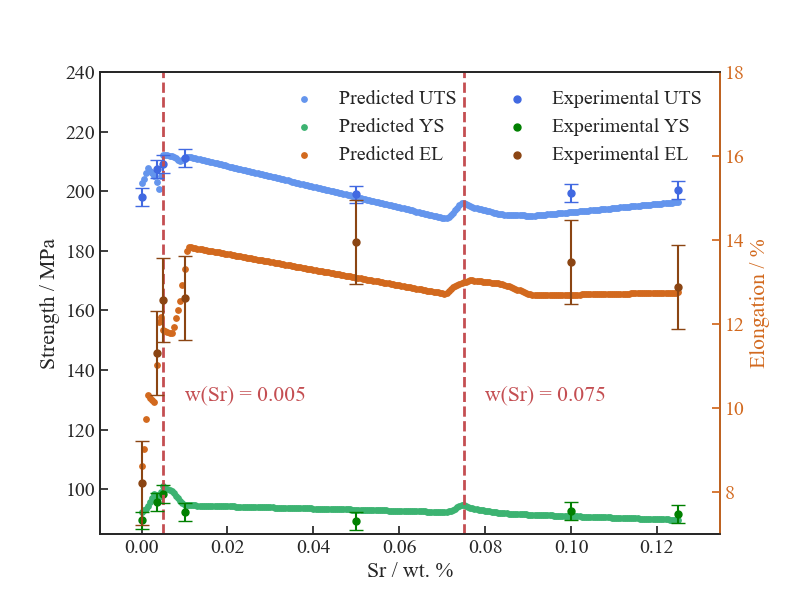
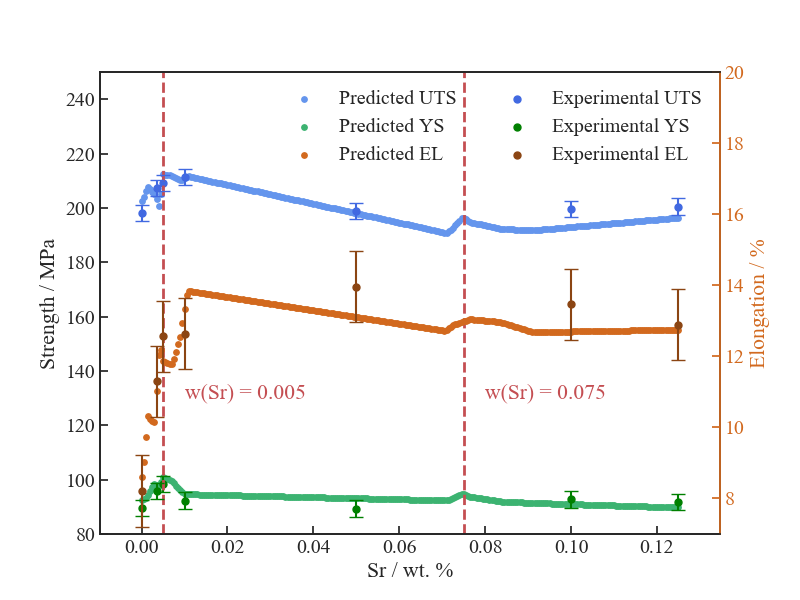
update

diff --git a/Projects/Experiment/Experiment_Al-Si-Mg-Sr_v0.0/Model_process.py b/Projects/Experiment/Experiment_Al-Si-Mg-Sr_v0.0/Model_process.py
@@ -192,67 +192,63 @@ def main(parameters_list):
         sns.set(font="Times New Roman", font_scale=1.3, style='ticks')
         matplotlib.rcParams['xtick.direction'] = 'in'
         matplotlib.rcParams['ytick.direction'] = 'in'
-        if item == 'UTS':
-            x_phase = np.linspace(-2.2, 2.7, 100)
-            y_index = 0
-            y_min = -2
-            y_max = 6
-        elif item == 'YS':
-            x_phase = np.linspace(-2.5, 3, 100)
-            y_index = 1
-            y_min = -3
+        y_min = -7
+        y_max = 5
+        if item == 'Al_1':
+            item_name = r'$\alpha$-(Al)'
+            x_phase = np.linspace(-2.2, 1, 100)
+            x_index = 0
+        elif item == 'Al_2':
+            item_name = 'Eutectic (Al)'
+            x_phase = np.linspace(-2.5, 1.5, 100)
+            x_index = 1
+        elif item == 'Si':
+            item_name = 'Eutectic (Si)'
+            x_phase = np.linspace(-1, 3, 100)
+            x_index = 2
             y_max = 7
         else:
-            x_phase = np.linspace(-2.2, 3.5, 100)
-            y_index = 2
-            y_min = -8
+            item_name = 'Al${_2}$Si${_2}$Sr'
+            x_phase = np.linspace(-1, 2, 100)
+            x_index = 3
             y_max = 7
         fig = plt.figure(figsize=(8, 6))
         ax = plt.subplot()
-        ax.set_xlabel('Phase fraction with regularization')
-        ax.set_ylabel('%s with regularization' % item)
+        ax.set_xlabel('Phase fraction of %s with regularization' % item_name)
+        ax.set_ylabel('Performance with regularization')
         ax.set_ylim(y_min, y_max)
-        # Al_1
-        pl11 = ax.scatter(x_testing_[:, 0], y_testing_[:, y_index], s=15)
-        fitting_w1, fitting_b1 = linear_fitting(x_testing_[0:153, 0],
-                                                y_testing_[0:153, y_index])
+        # UTS
+        pl11 = ax.scatter(x_testing_[:, x_index], y_testing_[:, 0], s=15)
+        fitting_w1, fitting_b1 = linear_fitting(x_testing_[0:153, x_index],
+                                                y_testing_[0:153, 0])
         pl12, = ax.plot(x_phase, fitting_w1 * x_phase +
                         fitting_b1, linestyle='dashed', linewidth=2)
-        # Al_2
-        pl21 = ax.scatter(x_testing_[:, 1], y_testing_[:, y_index], s=15)
-        fitting_w2, fitting_b2 = linear_fitting(x_testing_[:, 1],
-                                                y_testing_[:, y_index])
+        # YS
+        pl21 = ax.scatter(x_testing_[:, x_index], y_testing_[:, 1], s=15)
+        fitting_w2, fitting_b2 = linear_fitting(x_testing_[:, x_index],
+                                                y_testing_[:, 1])
         pl22, = ax.plot(x_phase, fitting_w2 * x_phase +
                         fitting_b2, linestyle='dashed', linewidth=2)
-        # Si
-        pl31 = ax.scatter(x_testing_[:, 2], y_testing_[:, y_index], s=15)
-        fitting_w3, fitting_b3 = linear_fitting(x_testing_[:, 2],
-                                                y_testing_[:, y_index])
+        # EL
+        pl31 = ax.scatter(x_testing_[:, x_index], y_testing_[:, 2], s=15)
+        fitting_w3, fitting_b3 = linear_fitting(x_testing_[:, x_index],
+                                                y_testing_[:, 2])
         pl32, = ax.plot(x_phase, fitting_w3 * x_phase +
                         fitting_b3, linestyle='dashed', linewidth=2)
-        # Al2Si2Sr
-        pl41 = ax.scatter(x_testing_[:, 3], y_testing_[:, y_index], s=15)
-        fitting_w4, fitting_b4 = linear_fitting(x_testing_[:, 3],
-                                                y_testing_[:, y_index])
-        pl42, = ax.plot(x_phase, fitting_w4 *
-                        x_phase + fitting_b4, linestyle='dashed', linewidth=2)
-        label11 = r'$\alpha$-(Al)'
+
+        label11 = 'UTS'
         label12 = 'w${_1}$ = %.2f  b${_1}$ = %.2f' % (fitting_w1, fitting_b1)
-        label21 = 'Eutectic (Al)'
+        label21 = 'YS'
         label22 = 'w${_2}$ = %.2f  b${_2}$ = %.2f' % (fitting_w2, fitting_b2)
-        label31 = 'Eutectic (Si)'
+        label31 = 'EL'
         label32 = 'w${_3}$ = %.2f  b${_3}$ = %.2f' % (fitting_w3, fitting_b3)
-        label41 = 'Al${_2}$Si${_2}$Sr'
-        label42 = 'w${_4}$ = %.2f  b${_4}$ = %.2f' % (fitting_w4, fitting_b4)
-        l1 = ax.legend([pl11, pl21, pl31, pl41], [label11, label21, label31, label41],
-                       loc='upper left', frameon=False)
-        l2 = ax.legend([pl12, pl22, pl32, pl42], [label12, label22, label32, label42],
-                       loc='upper right', frameon=False)
-        fig.gca().add_artist(l1)
-        plt.savefig(path + 'phase_%s_allRE.png' % item)
-        linear_coef_allRE = pd.DataFrame(data=np.ones((4, 2)),
-                                         index=['Al_1', 'Al_2',
-                                                'Si', 'AlSi2Sr'],
+
+        plt.legend([pl11, pl21, pl31, pl12, pl22, pl32],
+                   [label11, label21, label31, label12, label22, label32],
+                   loc='upper left', frameon=False, ncol=2)
+        plt.savefig(path + '%s_performance_allRE.png' % item)
+        linear_coef_allRE = pd.DataFrame(data=np.ones((3, 2)),
+                                         index=['UTS', 'YS', 'EL'],
                                          columns=['weight', 'bias'])
         linear_coef_allRE.iloc[0, 0] = fitting_w1
         linear_coef_allRE.iloc[0, 1] = fitting_b1
@@ -260,8 +256,7 @@ def main(parameters_list):
         linear_coef_allRE.iloc[1, 1] = fitting_b2
         linear_coef_allRE.iloc[2, 0] = fitting_w3
         linear_coef_allRE.iloc[2, 1] = fitting_b3
-        linear_coef_allRE.iloc[3, 0] = fitting_w4
-        linear_coef_allRE.iloc[3, 1] = fitting_b4
+
         linear_coef_allRE.to_csv(
             path + '%s_linear_coef_allRE.csv' % item, float_format='%.2f')
         # plt.show()
@@ -322,6 +317,12 @@ def main(parameters_list):
         y_standarded = torch.from_numpy(y_scaler.transform(y_list)).float()
         y_standarded_predict = torch.from_numpy(
             y_scaler.transform(y_predicting)).float()
+        # print(y_standarded_predict[:, 0].min())
+        # print(y_standarded_predict[:, 0].max())
+        # print(y_standarded_predict[:, 1].min())
+        # print(y_standarded_predict[:, 1].max())
+        # print(y_standarded_predict[:, 2].min())
+        # print(y_standarded_predict[:, 2].max())
         if np.isnan(y_predicting.numpy().any()):
             print('==============Prediction run out of range===============')
         else:
@@ -330,15 +331,6 @@ def main(parameters_list):
             # 数据可视化(散点图)
             draw_scatter(EL_Sr.numpy(), y_list.numpy(),
                          EL_Sr_predicting.numpy(), y_predicting.numpy(), error)
-            # draw_scatter(EL_Sr.numpy(), y_UTS.numpy(),
-            #              EL_Sr_predicting.numpy(), y_predicting.numpy()[:, 0],
-            #              'UTS / MPa', training_accuracy[0], testing_accuracy[0], error)
-            # draw_scatter(EL_Sr.numpy(), y_YS.numpy(),
-            #              EL_Sr_predicting.numpy(), y_predicting.numpy()[:, 1],
-            #              'YS / MPa', training_accuracy[1], testing_accuracy[1], error)
-            # draw_scatter(EL_Sr.numpy(), y_EL.numpy(),
-            #              EL_Sr_predicting.numpy(), y_predicting.numpy()[:, 2],
-            #              'EL / %', training_accuracy[2], testing_accuracy[2], error)
 
             # 综合力学性能计算及可视化
             # data_process(path, EL_Si_predicting.numpy(), EL_Mg_predicting.numpy())
@@ -346,13 +338,16 @@ def main(parameters_list):
             # 绘制相分数(正则化)-性能(正则化)关系图
             draw_relation_allRE(x_standarded.numpy(), y_standarded.numpy(),
                                 x_standarded_predict.numpy(), y_standarded_predict.numpy(),
-                                'UTS')
+                                'Al_1')
             draw_relation_allRE(x_standarded.numpy(), y_standarded.numpy(),
                                 x_standarded_predict.numpy(), y_standarded_predict.numpy(),
-                                'YS')
+                                'Al_2')
             draw_relation_allRE(x_standarded.numpy(), y_standarded.numpy(),
                                 x_standarded_predict.numpy(), y_standarded_predict.numpy(),
-                                'EL')
+                                'Si')
+            draw_relation_allRE(x_standarded.numpy(), y_standarded.numpy(),
+                                x_standarded_predict.numpy(), y_standarded_predict.numpy(),
+                                'Al2Si2Sr')
 
 
 if __name__ == '__main__':

diff --git a/Projects/Experiment/Experiment_Al-Si-Mg-Sr_v0.0/Model_main.py b/Projects/Experiment/Experiment_Al-Si-Mg-Sr_v0.0/Model_main.py
@@ -147,20 +147,20 @@ def main():
         Net = Model_NN.Net
 
         path = r'Projects\\Experiment\\Experiment_Al-Si-Mg-Sr_v0.0\\res\\Process\\%.3f\\' % index
-        model_path = r'Projects\\Experiment\\Experiment_Al-Si-Mg-Sr_v0.0\\res\\Train\\final\\model.pkl'
-        train_end_index = 6
-        error = np.array([[[3, 3, 3, 3, 3, 3],
-                           [3, 3, 3, 3, 3, 3]],
-                          [[3, 3, 3, 3, 3, 3],
-                           [3, 3, 3, 3, 3, 3]],
-                          [[1, 1, 1, 1, 1, 1],
-                           [1, 1, 1, 1, 1, 1]]])
-        # error = np.array([[[3, 3, 3, 3, 3, 3, 3],
-        #                    [3, 3, 3, 3, 3, 3, 3]],
-        #                   [[3, 3, 3, 3, 3, 3, 3],
-        #                    [3, 3, 3, 3, 3, 3, 3]],
-        #                   [[1, 1, 1, 1, 1, 1, 1],
-        #                    [1, 1, 1, 1, 1, 1, 1]]])
+        model_path = r'Projects\\Experiment\\Experiment_Al-Si-Mg-Sr_v0.0\\res\\Retrain\\0-4-8-11_1e-2\\model.pkl'
+        train_end_index = 7
+        # error = np.array([[[3, 3, 3, 3, 3, 3],
+        #                    [3, 3, 3, 3, 3, 3]],
+        #                   [[3, 3, 3, 3, 3, 3],
+        #                    [3, 3, 3, 3, 3, 3]],
+        #                   [[1, 1, 1, 1, 1, 1],
+        #                    [1, 1, 1, 1, 1, 1]]])
+        error = np.array([[[3, 3, 3, 3, 3, 3, 3],
+                           [3, 3, 3, 3, 3, 3, 3]],
+                          [[3, 3, 3, 3, 3, 3, 3],
+                           [3, 3, 3, 3, 3, 3, 3]],
+                          [[1, 1, 1, 1, 1, 1, 1],
+                           [1, 1, 1, 1, 1, 1, 1]]])
         # error = np.array([[[3, 3, 3, 3, 3, 3, 3, 3, 3, 3, 3],
         #                    [3, 3, 3, 3, 3, 3, 3, 3, 3, 3, 3]],
         #                   [[3, 3, 3, 3, 3, 3, 3, 3, 3, 3, 3],
